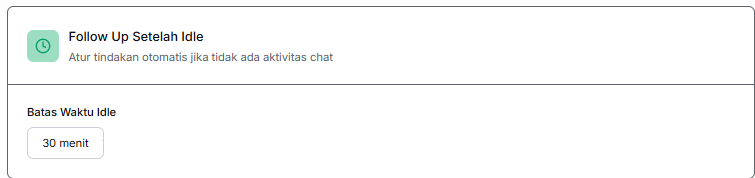
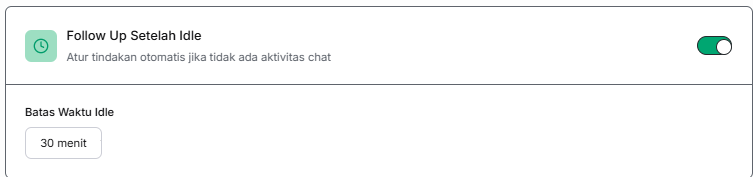
Update

diff --git a/cs-pengaturan.md b/cs-pengaturan.md
@@ -75,8 +75,18 @@ Berikut adalah contoh format tampilan ringkasan notifikasi yang akan diterima ol
 ![Halaman Formulir Tambah Notifikasi Internal](/assets/cs-pengaturan-8.png)
 
 ---
+## 2. Tunda Balasan Bot
 
-## ✨ 2. Tingkat Kreativitas AI (Temperature)
+Tunda balasan bot berfungsi agar bot anda tidak langsung membalas pesan dari pelanggan
+
+![Tunda balasan bot](/assets/cs-pengaturan-bot.png)
+
+### 💡 Cara Kerja Sistem:
+* Ketika fitur ini aktif dan Anda menyetel interval contoh : **30 detik**, Bot akan menunggu selama 30 detik sejak pesan pertama masuk.
+* Jika dalam masa tunggu tersebut pelanggan mengirimkan pesan tambahan, penghitung (*timer*) akan otomatis diulang kembali dari awal.
+* Setelah pelanggan berhenti mengirimkan pesan, Bot akan menggabungkan seluruh pesan tersebut, membacanya secara utuh, dan mengirimkan jawaban yang relevan.
+
+## ✨ 3. Tingkat Kreativitas AI
 
 Pengaturan skala kreativitas mengontrol seberapa kaku atau seberapa luwes gaya bahasa AI saat memberikan batasan kepada konsumen Anda. 
 
@@ -90,13 +100,13 @@ Anda dapat menentukan tingkatan respons melalui pilihan *dropdown* berikut:
 
 ---
 
-## ⏱️ 3. Follow Up Setelah Idle
+## ⏱️ 4. Follow Up Setelah Idle
 
-Fitur ini berfungsi untuk mengatasi masalah operasional di mana pelanggan tiba-tiba berhenti membalas percakapan (*idle*) di tengah-tengah proses penyelesaian masalah atau *troubleshooting* teknis.
+Fitur ini berfungsi untuk mengatasi masalah operasional di mana pelanggan tiba-tiba berhenti membalas percakapan (*idle*).
 
 ![Konfigurasi Batas Idle](/assets/cs-pengaturan-10.png)
 
-* **Fungsi:** Jika pelanggan tidak merespons dalam rentang waktu tertentu, bot akan otomatis mengirimkan pesan sapaan hangat/konfirmasi lanjutan untuk memancing balik respons mereka agar tiket kasus tidak hangus atau kedaluwarsa.
+* **Fungsi:** Apabila dinyalakan, Jika pelanggan tidak merespons dalam rentang waktu tertentu, bot akan otomatis mengirimkan pesan sapaan hangat/konfirmasi lanjutan untuk memancing balik respons mereka agar tiket kasus tidak hangus atau kedaluwarsa. Jika Idle dimatikan, nantinya Bot tidak akan melakukan follow up apabila pelanggan tidak membalas
 * **Batas Waktu Idle:** Anda dapat memilih durasi waktu tunggu bot yang sesuai dengan SOP bisnis Anda melalui pilihan menu:
     * `5 menit`   
     * `10 menit`

diff --git a/lead-pengaturan.md b/lead-pengaturan.md
@@ -7,18 +7,23 @@ description: "Panduan mengonfigurasi otomatisasi tindak lanjut (follow-up) dan m
 
 Menu **Pengaturan** pada Bot Lead Generation memungkinkan Anda untuk mengonfigurasi otomatisasi tindak lanjut (*follow-up*) dan menyesuaikan gaya kecerdasan buatan (AI) saat merespons prospek Anda.
 
-![Halaman Pengaturan Lead Gen](/assets/pengaturan-1.png)
+![Halaman Pengaturan Lead Gen](/assets/lead-pengaturan-1.png)
 
 ---
+## 1. Tunda Balasan Bot
 
-## 🔔 1. Pesan Pengingat (Reminder)
+* Ketika fitur ini aktif dan Anda menyetel interval contoh : **30 detik**, Bot akan menunggu selama 30 detik sejak pesan pertama masuk.
+* Jika dalam masa tunggu tersebut pelanggan mengirimkan pesan tambahan, penghitung (*timer*) akan otomatis diulang kembali dari awal.
+* Setelah pelanggan berhenti mengirimkan pesan, Bot akan menggabungkan seluruh pesan tersebut, membacanya secara utuh, dan mengirimkan jawaban yang relevan.
+  
+## 🔔 2. Pesan Pengingat (Reminder)
 
 Fitur ini berfungsi untuk mengirimkan notifikasi otomatis kepada pelanggan. 
 Jika diaktifkan (*toggle* menyala), Bot AI akan secara otomatis mengirimkan pesan pengingat kepada prospek atau pelanggan yang telah berhasil melakukan penjadwalan (janji temu) dengan bisnis Anda. Ini sangat berguna untuk mengurangi tingkat pembatalan atau ketidakhadiran (*no-show*).
 
 ---
 
-## ✨ 2. Tingkat Kreativitas AI (Temperature)
+## ✨ 3. Tingkat Kreativitas AI
 
 Pengaturan ini mengontrol seberapa kaku atau luwes AI dalam merangkai kata saat membalas pesan dari pelanggan. Anda dapat memilih skala kreativitas dari menu *dropdown* yang tersedia:
 
@@ -28,11 +33,11 @@ Pengaturan ini mengontrol seberapa kaku atau luwes AI dalam merangkai kata saat 
 
 ---
 
-## ⏱️ 3. Follow Up Setelah Idle
+## ⏱️ 4. Follow Up Setelah Idle
 
-Di dunia *sales*, pelanggan yang tiba-tiba berhenti membalas (*ghosting*) adalah hal yang biasa. Fitur ini dirancang untuk mengatasi masalah tersebut secara otomatis.
+Fitur ini berfungsi untuk melakukan follow up pada pelanggan, jika pelanggan tidak membalas dalam rentang waktu yang ditentukan
 
-* **Fungsi:** Jika pelanggan tidak membalas pesan bot dalam kurun waktu tertentu, bot akan otomatis mengirimkan pesan *follow-up* (tindak lanjut) untuk memancing kembali interaksi pelanggan.
+* **Fungsi:** Jika dinyalakan, apabila pelanggan tidak membalas pesan bot dalam kurun waktu tertentu, bot akan otomatis mengirimkan pesan follow-up untuk kembali interaksi pelanggan. Jika dimatikan, nantinya bot tidak akan melakukan follow up apabila pelanggan tidak membalas pesan
 * **Batas Waktu Idle:** Anda bisa menentukan sendiri berapa lama bot harus menunggu sebelum mengirim pesan *follow-up* (misalnya: `30 menit`).
 
 ---

diff --git a/sales-pengaturan.md b/sales-pengaturan.md
@@ -11,18 +11,22 @@ Menu **Pengaturan** pada Bot Sales digunakan untuk mengontrol perilaku bot saat 
 
 ## ⚙️ Komponen Konfigurasi Utama
 
-Anda dapat menyesuaikan tiga kontrol utama pada halaman ini demi menjaga kualitas dan alur otomasi obrolan robot Anda:
+### 1. Tunda Balasan Bot
 
-### 1. Tingkat Kreativitas
+* Ketika fitur ini aktif dan Anda menyetel interval contoh : **30 detik**, Bot akan menunggu selama 30 detik sejak pesan pertama masuk.
+* Jika dalam masa tunggu tersebut pelanggan mengirimkan pesan tambahan, penghitung (*timer*) akan otomatis diulang kembali dari awal.
+* Setelah pelanggan berhenti mengirimkan pesan, Bot akan menggabungkan seluruh pesan tersebut, membacanya secara utuh, dan mengirimkan jawaban yang relevan.
+
+### 2. Tingkat Kreativitas
 Fitur ini menentukan seberapa luwes atau ekspresif gaya bahasa yang digunakan oleh bot dalam merespons pesan percakapan dari calon pembeli.
 * **Rendah Sekali / Rendah:** Bot akan membalas pesan secara kaku, baku, dan sangat disiplin hanya menggunakan data referensi produk yang Anda berikan.
 * **Tinggi / Tinggi Sekali:** Bot akan membalas dengan gaya bahasa yang lebih ekspresif, imajinatif, dan kreatif dalam merangkai kalimat penawaran penjualan.
 
-### 2. Follow Up Setelah Idle
-Fitur otomasi tindakan mandiri bot apabila calon pelanggan tiba-tiba berhenti membalas chat.
+### 3. Follow Up Setelah Idle
+Fitur otomasi bot apabila calon pelanggan tiba-tiba berhenti membalas chat. Jika dinyalakan, nantinya bot akan melakukan follow up sesuai dengan rentang waktu yang ditentukan. Jika dimatikan, nantinya bot tidak akan melakukan follow up jika pelanggan tidak membalas chat
 * **Batas Waktu Idle:** Anda dapat menentukan rentang waktu tunggu (misalnya: `30 menit`). Jika pelanggan tidak mengirimkan aktivitas chat baru hingga batas waktu tersebut habis, bot secara otomatis akan mengirimkan pesan tindak lanjut (*follow-up*) untuk memicu kembali obrolan penjualan.
 
-### 3. Reminder Otomatis
+### 4. Reminder Otomatis
 
 * **Fungsi:** Bot akan mengirimkan pesan pengingat (*reminder*) kepada pelanggan sesaat setelah pembayaran mereka dikonfirmasi dan diverifikasi oleh sistem internal Anda.
 * Geser tombol ke **Aktif** untuk menyalakan fitur, atau geser ke **Nonaktif** jika Anda tidak ingin mengirimkan pesan pengingat otomatis pasca-pembayaran.